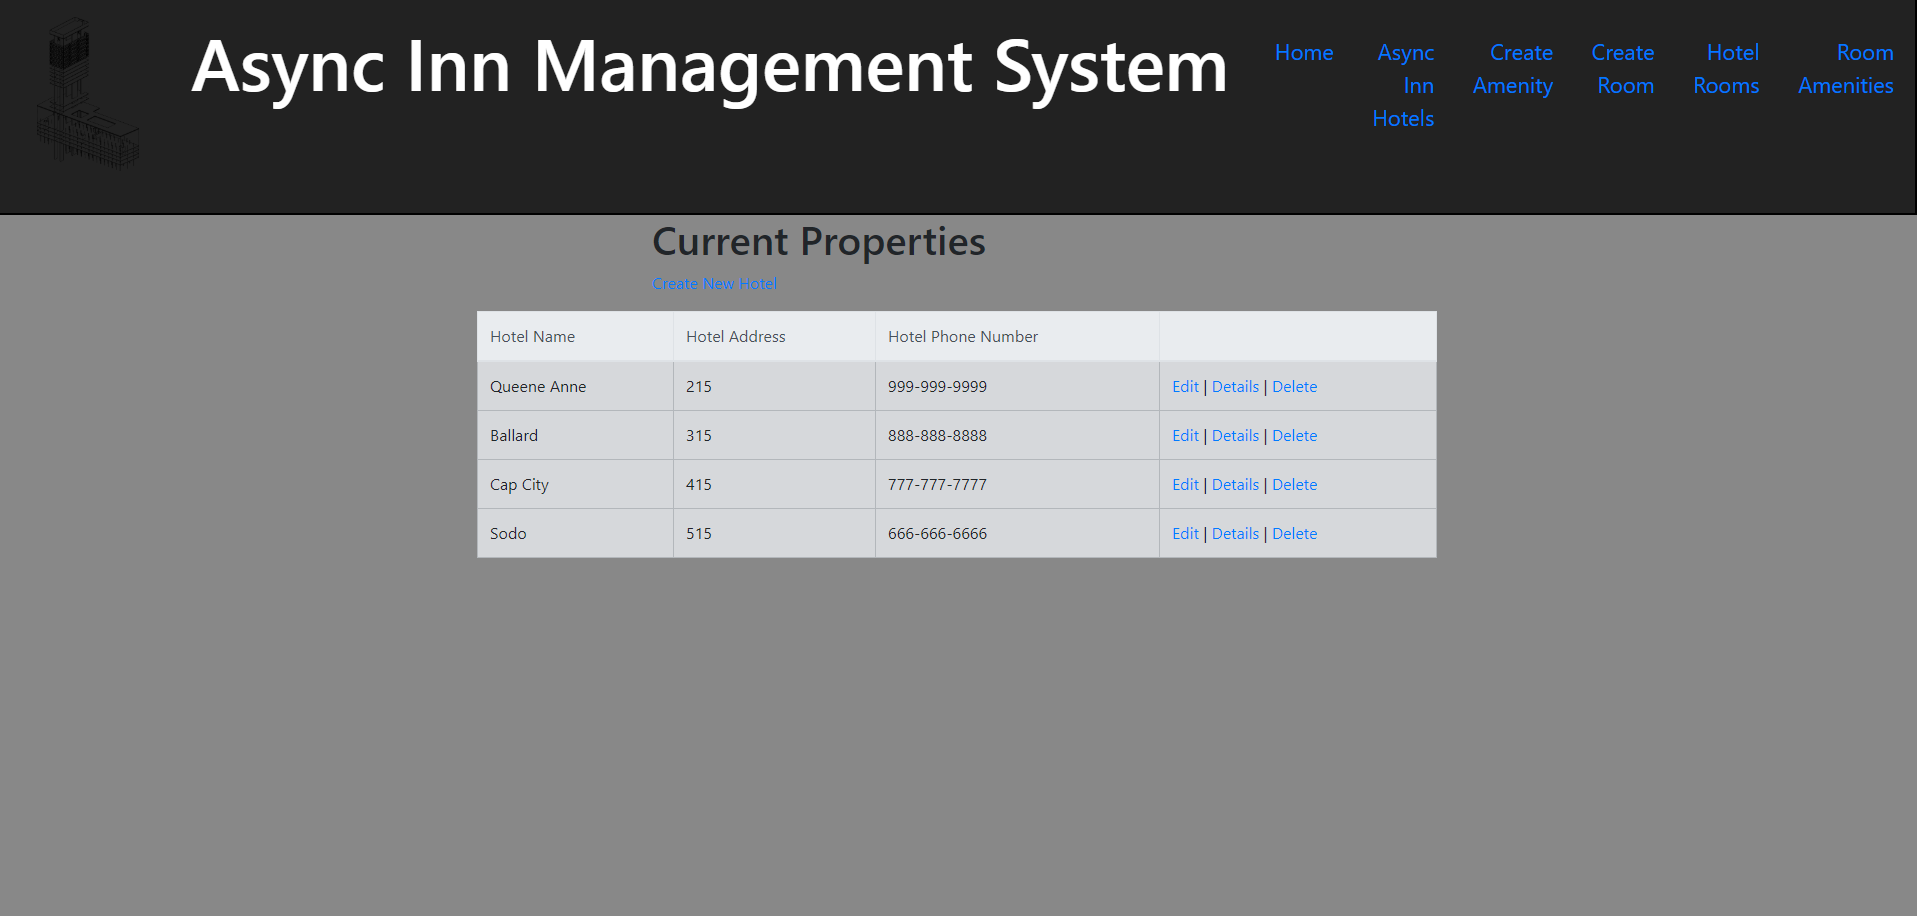
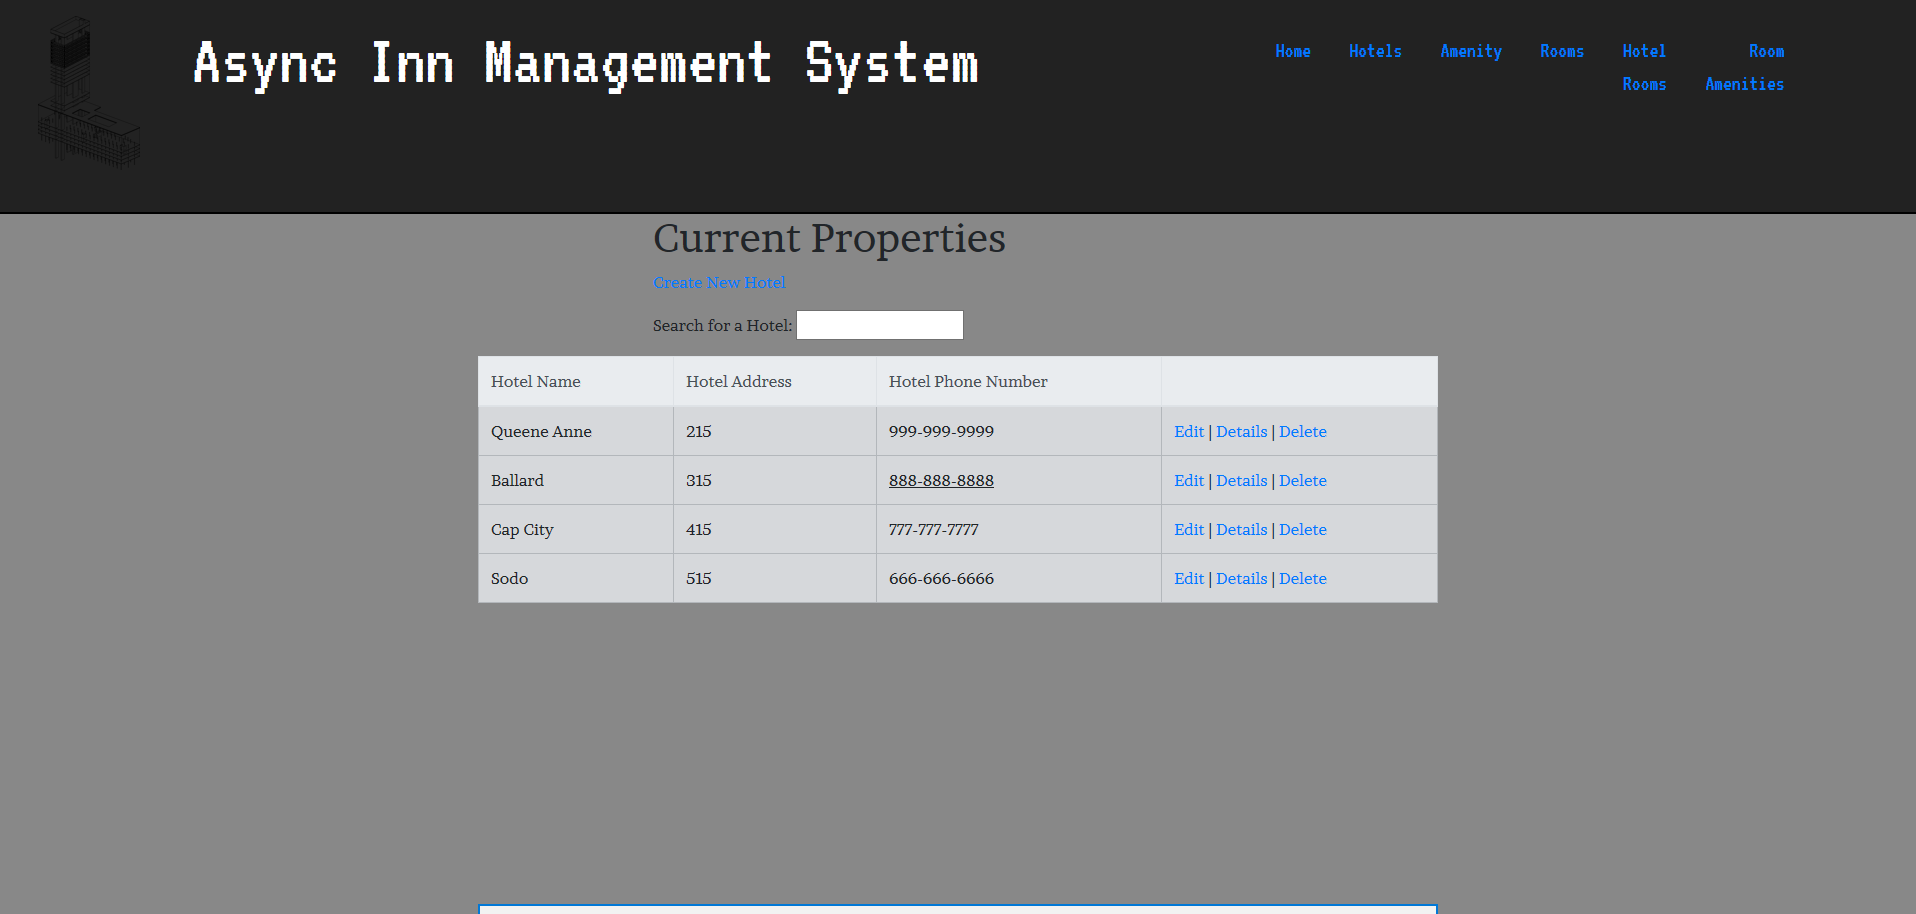
updated styling, added count to base index pages

diff --git a/Async_Inn/Async_Inn/wwwroot/ControllerHead.css b/Async_Inn/Async_Inn/wwwroot/ControllerHead.css
@@ -149,6 +149,15 @@ a:hover {
         width: 55vw;
         margin-left: 22vw;
     }
+#create-link:hover {
+    color: purple;
+    font-size: 4vw;
+}
+#create-nav {
+    font-size: 5vw;
+    color: #000;
+    font-family: 'VT323', monospace;
+}
 /*********** greater than mobile - desktop view *********************/
 @media screen and (min-width: 960px) {
     .create-nav {
@@ -215,7 +224,7 @@ a:hover {
         position: relative;
         padding-right: 2vw;
         float: right;
-        right: 105px;
+        right: 50px;
         z-index: 1;
     }
         #navToggle span {
@@ -231,7 +240,7 @@ a:hover {
 
     #index-contain {
         height: 9vw;
-        width: 70vw;
+        width: 55vw;
         text-align: left;
     }
 
@@ -239,5 +248,28 @@ a:hover {
         font-size: 3.8vw;
         color: #fff;
         padding-left: 10vw;
+    }
+    #links {
+        color: #fff;
+    }
+    .col-centered {
+        float: none;
+        margin: 0 auto;
+        padding-top: 0vw;
+        padding-bottom: 1vw;
+    }
+
+    #create-nav {
+        color: #666;
+        font-size: 2vw;
+    }
+
+    #create-link {
+        color: #000;
+    }
+
+    #create-link:hover {
+        color: purple;
+        font-size: 2.2vw;
     }
 }

diff --git a/Async_Inn/Async_Inn/wwwroot/StyleSheet2.css b/Async_Inn/Async_Inn/wwwroot/StyleSheet2.css
@@ -18,7 +18,7 @@
 header {
     text-align: left;
     border: solid 2px black;
-    margin-top: 15vw;
+    margin-top: 0vw;
 } 
 a {
     text-decoration: none;
@@ -202,18 +202,6 @@ a:hover {
         z-index: 1;
     }
 
-        #navToggle input {
-            display: none;
-            width: 40px;
-            height: 32px;
-            position: absolute;
-            top: -7px;
-            right: -5px;
-            cursor: pointer;
-            opacity: 0;
-            z-index: 2;
-        }
-
         #navToggle span {
             display: none;
 
@@ -221,7 +209,6 @@ a:hover {
     #headhotel {
         float: left;
         padding-left: 2vw;
-        height: 8vw;
         background: #fff;
     }
     /***************** INDEX *********************/
@@ -233,7 +220,7 @@ a:hover {
     }
 
     #index-title {
-        font-size: 5vw;
+        font-size: 3.8vw;
         color: #fff;
         padding-left: 10vw;
     }
